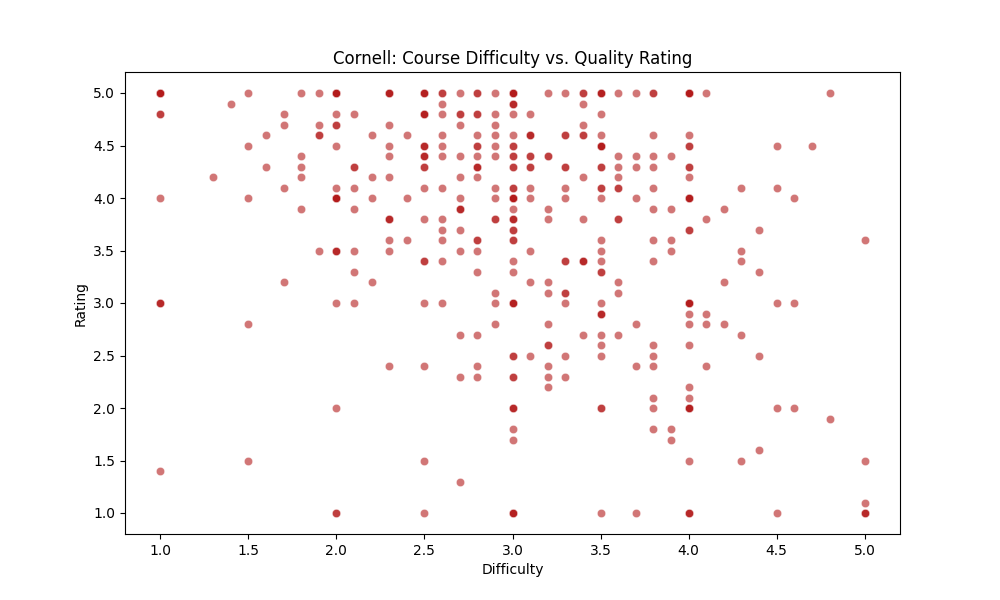
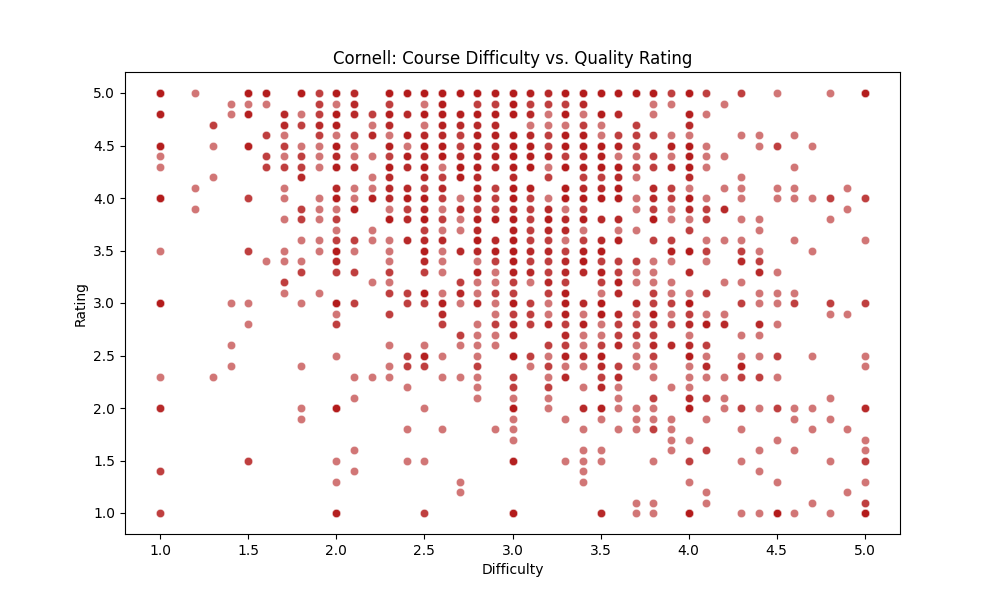
Update review data

diff --git a/data/fetch_cornell_data.py b/data/fetch_cornell_data.py
@@ -13,10 +13,7 @@ def main():
 
     try:
         with open(input_file, "r", encoding="utf-8") as f:
-            for idx, line in enumerate(f):
-                if idx >= 500:
-                    break
-
+            for line in f:
                 record = json.loads(line)
 
                 comment = "No text provided."
